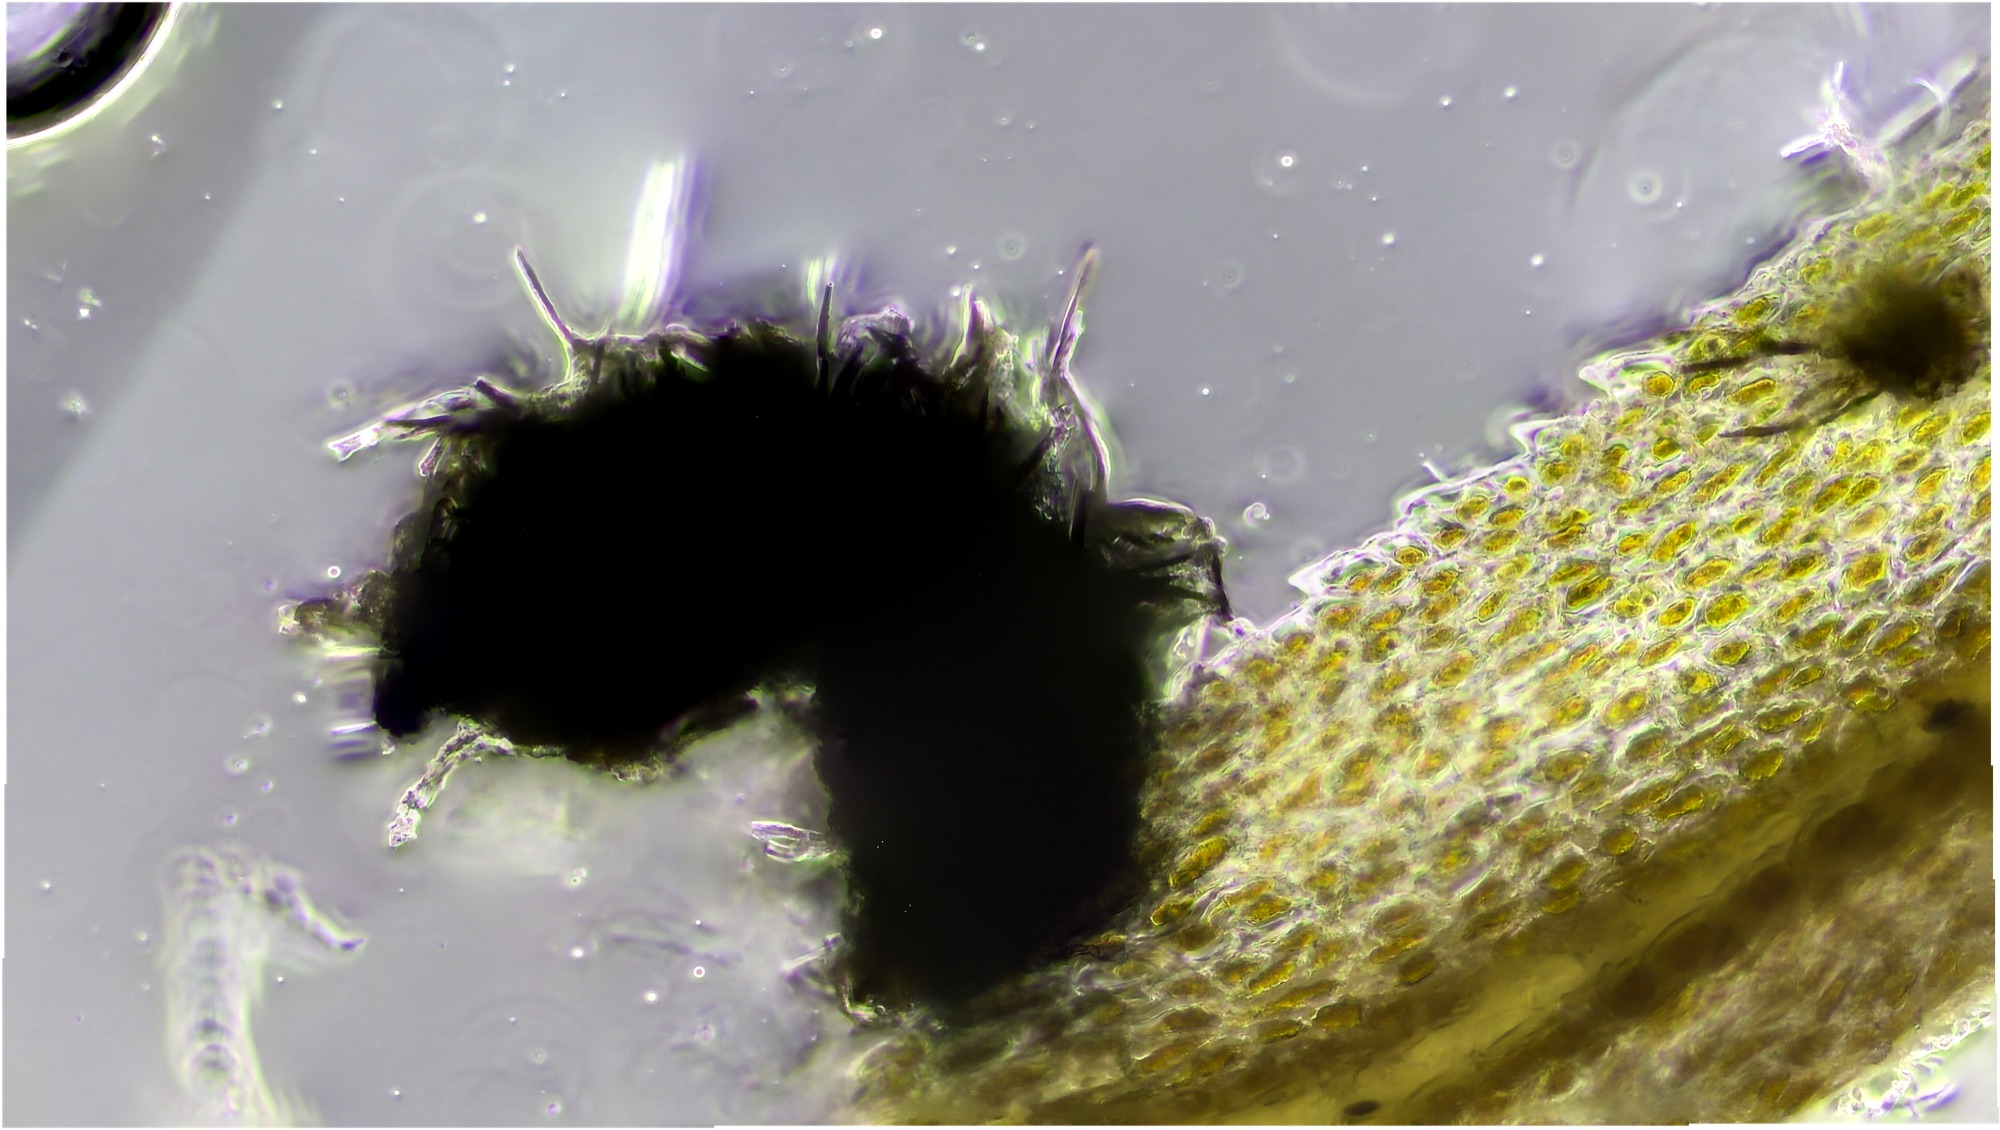
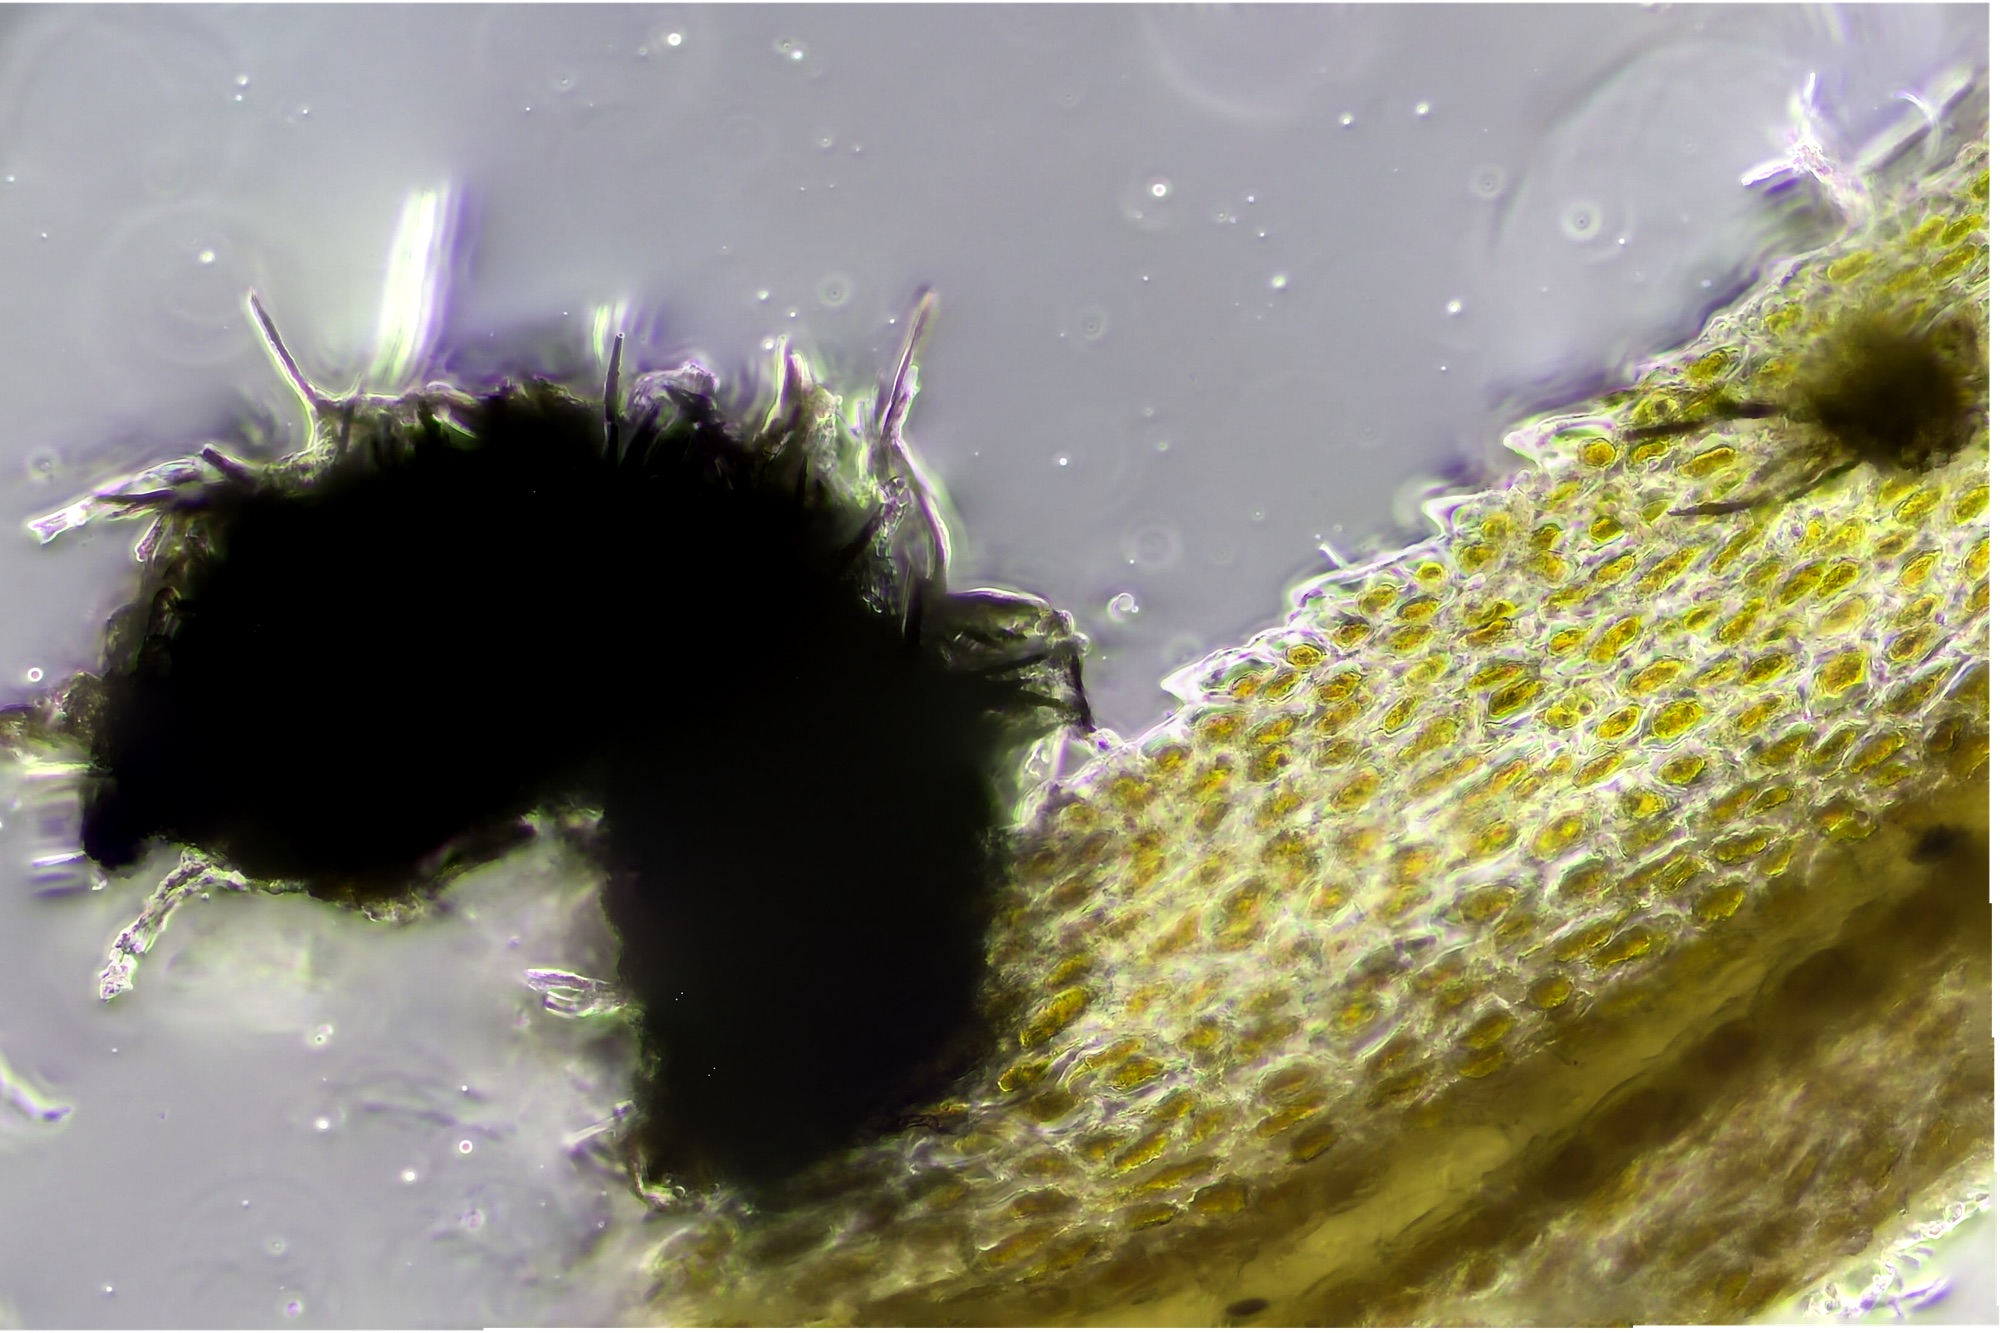
Added Egypt

diff --git a/albums/mcgill-afss.html b/albums/mcgill-afss.html
@@ -33,7 +33,7 @@
       <p class="story__place">Narok County, Kenya (Winter 2023)</p>
       <!-- Replace the paragraph below with text. Add more <p> blocks for more paragraphs. -->
       <p> Journal Entry - January 24th </p>
-      <p>"Two hours away from the Maasai Mara Reserve, the Maji Moto landscape already looks very different from the grasslands and open bushlands we witness during safaris. The land is dry, the cows are skinny. The whistle of wind through bushes imitates the sound of rain, but in reality, this land and its people haven’t seen or heard rain in a long time. 
+      <p>"note: Maji Moto in Kiswahili means "Hot Water". Two hours away from the Maasai Mara Reserve, the Maji Moto landscape already looks very different from the grasslands and open bushlands we witness during safaris. The land is dry, the cows are skinny. The whistle of wind through bushes imitates the sound of rain, but in reality, this land and its people haven’t seen or heard rain in a long time. 
         In the middle of this harsh environment, like a green oasis, the waters of the hot spring give rise to tall trees that seem out of place in this landscape. The water also brings people and animals together. This hub is a place for bathing, laundry, cattle drinking, and water fetching. Motorcycles and donkeys gather around the stream waiting to be loaded. 
         The rusty and leaking water pump on top of the hill syncs its squeaking with the wind. The nighttime in Maji Moto is a striking contrast to the arid days. The emptiness of a cloudless, shining sky is filled by the sound of strong winds approaching from afar. Now that the land has cooled down, the peaceful silence is occasionally disturbed by hyenas’ laughs."</p>
       <p>January 27th</p>

diff --git a/albums/album.html b/albums/album.html
@@ -1,0 +1,48 @@
+<!DOCTYPE html>
+<html lang="en">
+<head>
+<title>Album Coming Soon | Lucia Gonzalez</title>
+<meta charset="UTF-8">
+<meta name="viewport" content="width=device-width, initial-scale=1">
+<link rel="preconnect" href="https://fonts.googleapis.com">
+<link rel="preconnect" href="https://fonts.gstatic.com" crossorigin>
+<link href="https://fonts.googleapis.com/css2?family=EB+Garamond:wght@400&family=Jost:wght@300;400&display=swap" rel="stylesheet">
+<link rel="stylesheet" href="../style.css">
+</head>
+<body>
+
+<header class="top">
+  <button class="menu-toggle" type="button" aria-expanded="false" aria-controls="menu" aria-label="Open menu">
+    <span></span><span></span><span></span>
+  </button>
+  <a class="top__name" href="../index.html">Lucia Gonzalez</a>
+  <a class="top__social" href="https://www.instagram.com/photobymlgt" target="_blank" rel="noopener noreferrer">Instagram</a>
+</header>
+
+<nav class="menu" id="menu" aria-label="Primary">
+  <a href="../index.html">Home</a>
+  <a href="../work.html" aria-current="page">Field Notes</a>
+  <a href="../about.html">About | Contact</a>
+</nav>
+
+<main class="page">
+
+  <section class="story">
+    <div class="story__text">
+      <h1>Album Coming Soon</h1>
+      <p class="story__place">This page is under construction.</p>
+      <p>;/</p>
+      <p><a href="../work.html">&larr; Back to Field Notes</a></p>
+    </div>
+  </section>
+
+</main>
+
+<footer class="foot">
+  <p>© <span id="year">2026</span> Lucia Gonzalez</p>
+  <p><a href="mailto:mluciagt11@gmail.com">mluciagt11@gmail.com</a></p>
+</footer>
+
+<script src="../script.js"></script>
+</body>
+</html>

diff --git a/work.html b/work.html
@@ -29,7 +29,7 @@
   <div class="album__grid">
     <a class="card" href="albums/antarctica.html">
       <img src="images/SG2_Stromness-29.jpg" alt="Cierva Cove, Antarctic Peninsula">
-      <span>Science aboard the National Geographic Endurance</span>
+      <span>Science aboard the NatGeo Endurance</span>
     </a>
     <a class="card" href="albums/moss-mycobiome.html">
       <img src="images/Pleurozium_lbm.jpg" alt="The hidden world of mosses">
@@ -40,8 +40,16 @@
       <span>Jineteada, Fernet y Fútbol</span>
     </a>
     <a class="card" href="albums/mcgill-afss.html">
-      <img src="images/afssbymlgt_elephant.jpg" alt="McGill AFSS 2023">
+      <img src="images/AFSS-6.jpg" alt="Maji Moto, Kenya">
       <span>Homestay in Maji Moto</span>
+    </a>
+    <a class="card" href="albums/album.html">
+      <img src="images/Egypt-1.jpg" alt="Nile River, Egypt">
+      <span>Denial is a river in Egypt</span>
+    </a>
+    <a class="card" href="albums/album.html">
+      <img src="images/COL.casanare-096.jpg" alt="Monterrey, colombia">
+      <span>Arepas, Aguardiente y Musica Llanera</span>
     </a>
   </div>
 </main>
